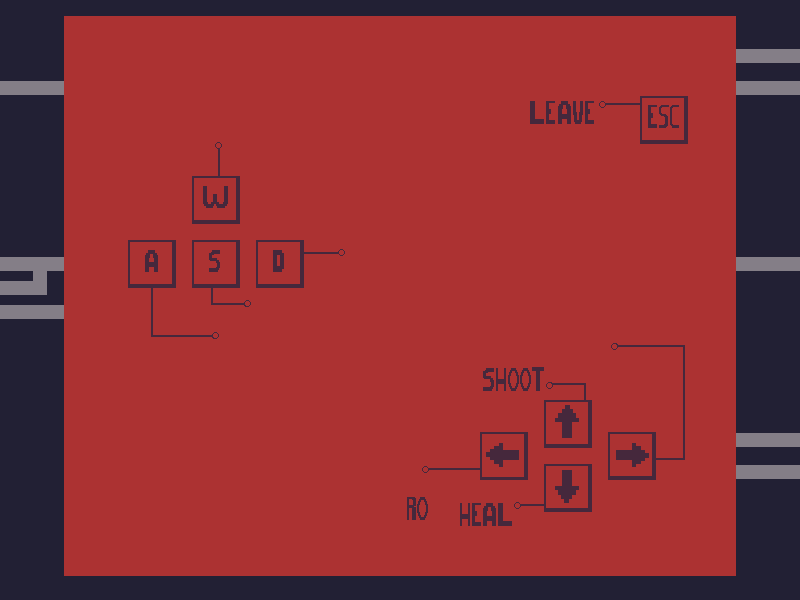
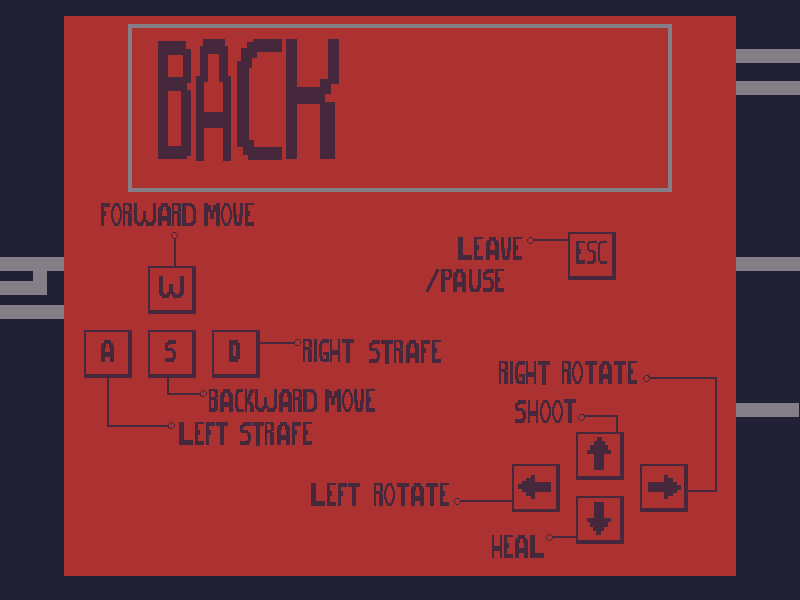
added menu assets

diff --git a/JointProj/JointProj/src/Game.cpp b/JointProj/JointProj/src/Game.cpp
@@ -9,17 +9,14 @@ Game::Game() : m_window{}, m_DELETEexitGame{ false } //when true game will exit
 	m_level.loadLevel(1);
 	m_enemy.init(m_level.getWidth(), { 7.0f, 13.0f });
 
-	m_playButton.setSize({ 544, 176 });
-	m_playButton.setPosition({ 128, 16 });
+	m_button1.setSize({ 544, 176 });
+	m_button1.setPosition({ 128, 16 });
 
-	m_instructionsButton.setSize({ 544, 176 });
-	m_instructionsButton.setPosition({ 128, 208 });
+	m_button2.setSize({ 544, 176 });
+	m_button2.setPosition({ 128, 208 });
 
-	m_settingsButton.setSize({ 544, 176 });
-	m_settingsButton.setPosition({ 128, 400 });
-
-	m_backButton.setSize({ 544, 176 });
-	m_backButton.setPosition({ 128, 16 });
+	m_button3.setSize({ 544, 176 });
+	m_button3.setPosition({ 128, 400 });
 }
 
 Game::~Game()
@@ -92,22 +89,22 @@ void Game::processMouseClick(const std::optional<sf::Event> t_event)
 	switch (m_gameState)
 	{
 	case States::GAME_MENU:
-		if (m_playButton.getGlobalBounds().contains({ static_cast<float>(mouseClick->position.x), static_cast<float>(mouseClick->position.y) }))
+		if (m_button1.getGlobalBounds().contains({ static_cast<float>(mouseClick->position.x), static_cast<float>(mouseClick->position.y) }))
 		{
 			m_gameState = States::GAME_RUNNING;
 		}
-		else if (m_instructionsButton.getGlobalBounds().contains({ static_cast<float>(mouseClick->position.x), static_cast<float>(mouseClick->position.y) }))
+		else if (m_button2.getGlobalBounds().contains({ static_cast<float>(mouseClick->position.x), static_cast<float>(mouseClick->position.y) }))
 		{
 			m_gameState = States::GAME_INSTRUCTIONS;
 		}
-		else if (m_settingsButton.getGlobalBounds().contains({ static_cast<float>(mouseClick->position.x), static_cast<float>(mouseClick->position.y) }))
+		else if (m_button3.getGlobalBounds().contains({ static_cast<float>(mouseClick->position.x), static_cast<float>(mouseClick->position.y) }))
 		{
 			m_gameState = States::GAME_SETTINGS;
 		}
 		break;
 	case States::GAME_INSTRUCTIONS:
 	case States::GAME_SETTINGS:
-		if (m_backButton.getGlobalBounds().contains({ static_cast<float>(mouseClick->position.x), static_cast<float>(mouseClick->position.y) }))
+		if (m_button1.getGlobalBounds().contains({ static_cast<float>(mouseClick->position.x), static_cast<float>(mouseClick->position.y) }))
 		{
 			m_gameState = States::GAME_MENU;
 		}
@@ -130,8 +127,10 @@ void Game::update(sf::Time t_deltaTime)
 		m_window.renderMenu();
 		break;
 	case States::GAME_INSTRUCTIONS:
+		m_window.renderInstructions();
 		break;
 	case States::GAME_SETTINGS:
+		m_window.renderSettings();
 		break;
 	case States::GAME_RUNNING:
 		m_player.handleInput(t_deltaTime.asMilliseconds(), m_level);

diff --git a/JointProj/JointProj/src/Window.cpp b/JointProj/JointProj/src/Window.cpp
@@ -6,10 +6,24 @@ Window::Window() : m_window(sf::VideoMode({ s_screenWidth, s_screenHeight }), "G
 
 	if (!m_menuTexture.loadFromFile("Resources\\ASSETS\\IMAGES\\menu.png"))
 	{
-		std::cout << "problem loading enemy texture" << std::endl;
+		std::cout << "problem loading menu texture" << std::endl;
 	}
 
 	m_menuSprite.setTexture(m_menuTexture, true);
+
+	if (!m_instructionsTexture.loadFromFile("Resources\\ASSETS\\IMAGES\\instructions.png"))
+	{
+		std::cout << "problem loading instructions texture" << std::endl;
+	}
+
+	m_instructionsSprite.setTexture(m_instructionsTexture, true);
+
+	if (!m_settingsTexture.loadFromFile("Resources\\ASSETS\\IMAGES\\settings.png"))
+	{
+		std::cout << "problem loading settings texture" << std::endl;
+	}
+
+	m_settingsSprite.setTexture(m_settingsTexture, true);
 }
 
 std::optional<sf::Event> Window::pollEvent()
@@ -22,6 +36,24 @@ void Window::renderMenu()
 	m_window.clear();
 
 	m_window.draw(m_menuSprite);
+
+	m_window.display();
+}
+
+void Window::renderInstructions()
+{
+	m_window.clear();
+
+	m_window.draw(m_instructionsSprite);
+
+	m_window.display();
+}
+
+void Window::renderSettings()
+{
+	m_window.clear();
+
+	m_window.draw(m_settingsSprite);
 
 	m_window.display();
 }

diff --git a/JointProj/JointProj/include/Window.h b/JointProj/JointProj/include/Window.h
@@ -14,6 +14,8 @@ public:
 	std::optional<sf::Event> pollEvent();
 
 	void renderMenu();
+	void renderInstructions();
+	void renderSettings();
 
 	void renderGameRunning(const Player& t_player, const Enemy& t_enemy, const Level& t_level);						//renders game
 	void renderMiniMap(const Player& t_player, const Enemy& t_enemy, const Level& t_level);				//renders MiniMap
@@ -39,4 +41,8 @@ private:
 	//temp menu stuff
 	sf::Texture m_menuTexture;
 	sf::Sprite m_menuSprite{ m_menuTexture };
+	sf::Texture m_instructionsTexture;
+	sf::Sprite m_instructionsSprite{ m_instructionsTexture };
+	sf::Texture m_settingsTexture;
+	sf::Sprite m_settingsSprite{ m_settingsTexture };
 };

diff --git a/JointProj/JointProj/include/Game.h b/JointProj/JointProj/include/Game.h
@@ -48,10 +48,9 @@ private:
 	Level m_level;
 	States m_gameState{ States::GAME_MENU };
 
-	sf::RectangleShape m_playButton;
-	sf::RectangleShape m_instructionsButton;
-	sf::RectangleShape m_settingsButton;
-	sf::RectangleShape m_backButton;
+	sf::RectangleShape m_button1;
+	sf::RectangleShape m_button2;
+	sf::RectangleShape m_button3;
 
 	Player m_player;
 	Enemy m_enemy;
